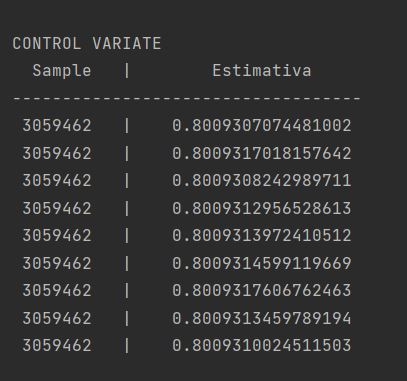
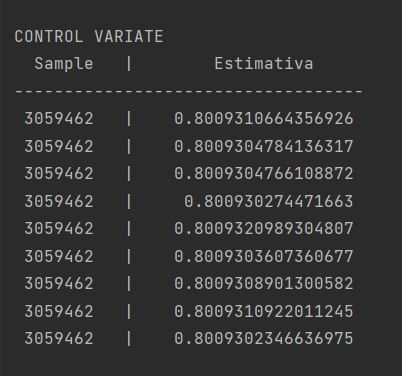
ep2 feito

diff --git a/EP2/13687175_EP2.py b/EP2/13687175_EP2.py
@@ -1,47 +1,45 @@
-import math
 import numpy as np
 from scipy.stats import beta
-import matplotlib.pyplot as plt
 
 SEED = 13687175
-N = 1000 # Sample size
 A = 0.386617636
 B = 0.47950399848
 
 def main():
     np.random.seed(SEED)
 
-    # print('CRUDE')
-    # print('{0:^10} | {1:^25}'.format('Sample',
-    #                                  f'Estimativa'))
-    # print('-'*35)
-    # for i in range(1, 10):
-    #     n = 13465688
-    #     crude = Crude(n)
-    #     print('{0:^10} | {1:^25}'.format(f'{n}',
-    #                                     f'{crude.estimativa()}'))
-    #
-    # print('\n \n')
-    # print('Hit or Miss')
-    # print('{0:^10} | {1:^25}'.format('Sample',
-    #                                  f'Estimativa'))
-    # print('-' * 35)
-    # for i in range(1, 10):
-    #     n = 10128002
-    #     hom = HitOrMiss(n)
-    #     print('{0:^10} | {1:^25}'.format(f'{n}',
-    #                                      f'{hom.estimativa()}'))
-    #
-    # print('\n \n')
-    # print('IMPORTANCE SAMPLING')
-    # print('{0:^10} | {1:^25}'.format('Sample',
-    #                                  f'Estimativa'))
-    # print('-' * 35)
-    # n = 65281716
-    # for i in range(1, 10):
-    #     imp_sample = ImportanceSampling(n)
-    #     print('{0:^10} | {1:^25}'.format(f'{n}',
-    #                                      f'{imp_sample.estimativa()}'))
+    print('\n \n')
+    print('CRUDE')
+    print('{0:^10} | {1:^25}'.format('Sample',
+                                     f'Estimativa'))
+    print('-'*35)
+    for i in range(1, 10):
+        n = 13465688
+        crude = Crude(n)
+        print('{0:^10} | {1:^25}'.format(f'{n}',
+                                        f'{crude.estimativa()}'))
+
+    print('\n \n')
+    print('Hit or Miss')
+    print('{0:^10} | {1:^25}'.format('Sample',
+                                     f'Estimativa'))
+    print('-' * 35)
+    for i in range(1, 10):
+        n = 10128002
+        hom = HitOrMiss(n)
+        print('{0:^10} | {1:^25}'.format(f'{n}',
+                                         f'{hom.estimativa()}'))
+
+    print('\n \n')
+    print('IMPORTANCE SAMPLING')
+    print('{0:^10} | {1:^25}'.format('Sample',
+                                     f'Estimativa'))
+    print('-' * 35)
+    n = 65281716
+    for i in range(1, 10):
+        imp_sample = ImportanceSampling(n)
+        print('{0:^10} | {1:^25}'.format(f'{n}',
+                                         f'{imp_sample.estimativa()}'))
 
     print('\n \n')
     print('CONTROL VARIATE')
@@ -91,29 +89,14 @@ class ImportanceSampling:
         self.alpha = 0.35
         self.beta = 1
         points = np.random.beta(self.alpha, self.beta, n)  # geradora de pontos da função beta
-        f = np.exp(-A * points) * np.cos(B * points)  # guarda todos os valores da funcao f(x)
+        f_values = np.exp(-A * points) * np.cos(B * points)  # guarda todos os valores da funcao f(x)
         beta_values = beta.pdf(points, self.alpha, self.beta)  # guarda todos os valores da funcao beta(alpha, beta)
 
         # (f / beta_values).sum() retorna um array com a soma de todas as divisoes feitas entre 'f' e 'beta_values'
-        self.gamma_hat = (f / beta_values).sum() / n  # estimativa da importance sample
+        self.gamma_hat = (f_values / beta_values).sum() / n  # estimativa da importance sample
 
     def estimativa(self):
         return self.gamma_hat
-
-    def grafico(self):
-        x = np.linspace(0, 1, 10000)
-        # g(x) = Beta Distribuition(alpha, beta)
-        function_g = beta.pdf(x, self.alpha, self.beta)
-        # f(x) = exp(-Ax)cos(Bx)
-        y2 = np.exp(-A * x) * np.cos(B * x)
-        plt.title("PDF of Beta", fontsize=14)
-        plt.xlabel("X", fontsize=8)
-        plt.ylabel("Probability Density", fontsize=8)
-        plt.plot(x, function_g, linewidth=3, color='firebrick')
-        plt.plot(x, y2, linewidth=3, color='green')
-        plt.ylim([0, 2])
-        plt.xlim([0, 1.01])
-        plt.show()
 
 
 # CONSERTAR OS VALORES DA SOMA
@@ -122,16 +105,10 @@ class ControlVariate:
         # phi(x) = -0.39727x + 1
         self.integration_phi = 0.801365  # integral de phi no intervalo (0,1)
         points = np.random.uniform(0, 1, n)
-        f_values = (np.exp(-A * points) * np.cos(B * points))
-        varphi_values = np.array((-0.39727 * points) + 1)
-        result = f_values.sum() - varphi_values.sum()
+        f_values = (np.exp(-A * points) * np.cos(B * points))  # valores de f(x)
+        phi_values = np.array(-0.39727 * points + 1)  # valores da função que aproxima f(x)
 
-        # soma = 0
-        # for i in range(n):
-        #     soma += (np.exp(-A * points[i]) * np.cos(B * points[i])) \
-        #             - (-0.39727 * points[i] + 1) \
-        #             + self.integration_phi
-        self.gamma_hat = (result.sum() + self.integration_phi) / n
+        self.gamma_hat = (f_values - phi_values + self.integration_phi).sum() / n
 
     def estimativa(self):
         return self.gamma_hat
